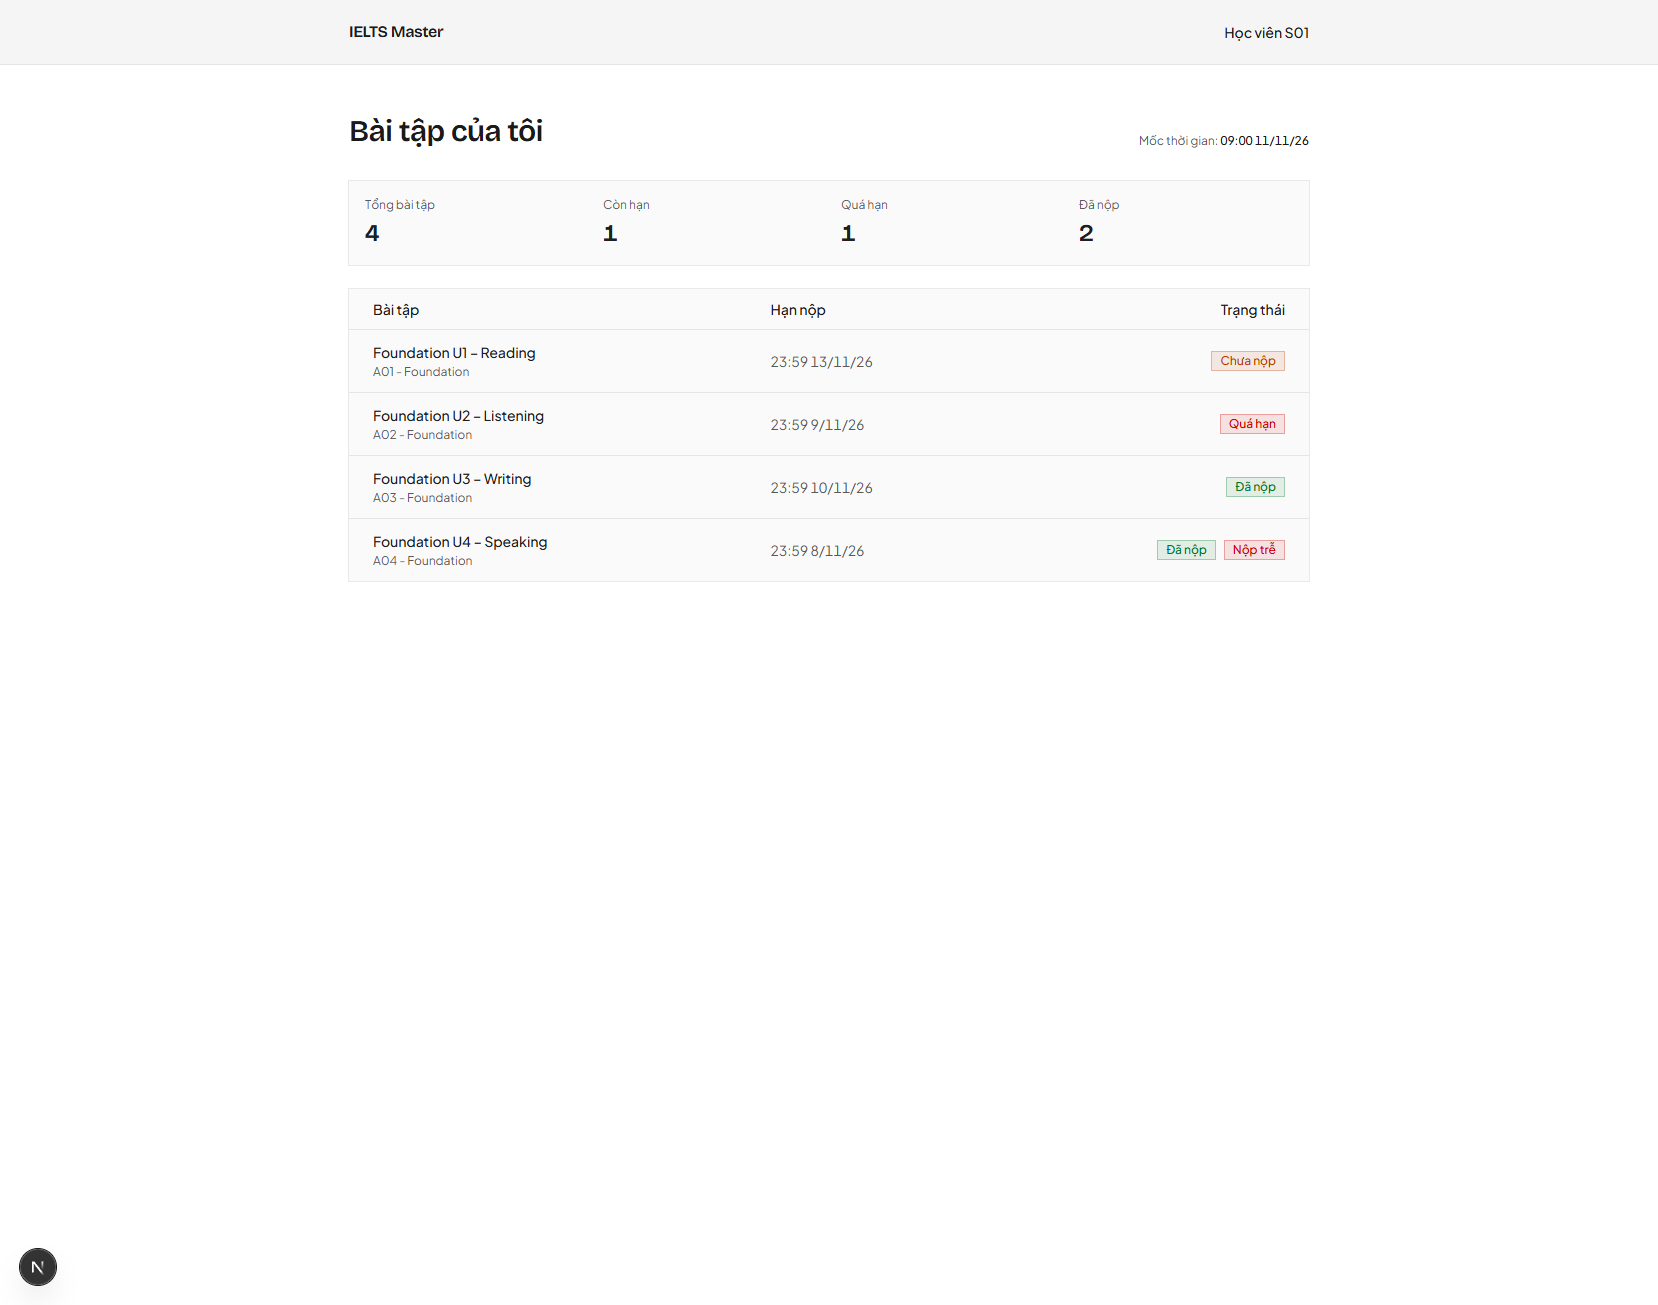
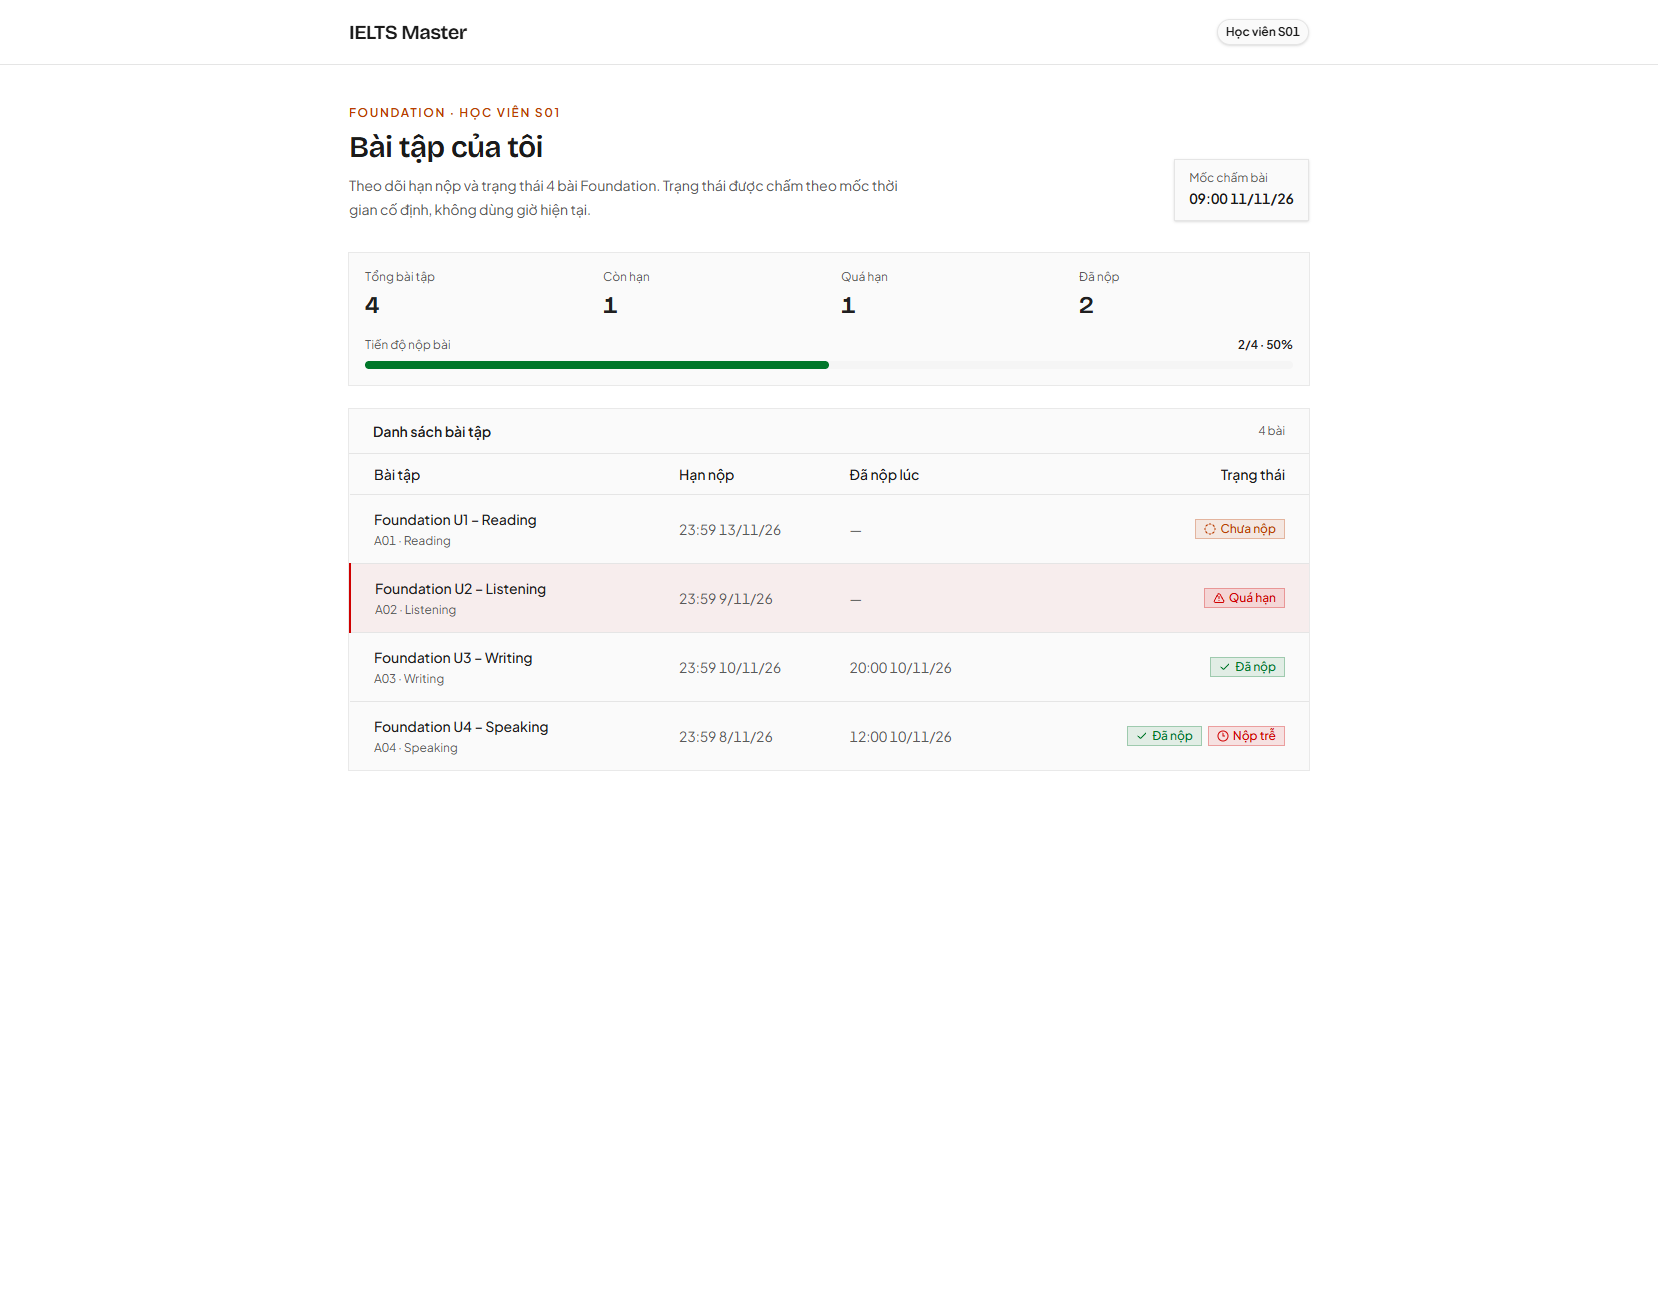
feat: update page title for consistency in metadata

diff --git a/src/app/layout.tsx b/src/app/layout.tsx
@@ -15,7 +15,7 @@ const bricolageGrotesque = Bricolage_Grotesque({
 });
 
 export const metadata: Metadata = {
-  title: "Bài tập của tôi | IELTS Master",
+  title: "IELTS Master",
   description: "Theo dõi bài tập IELTS Foundation của học viên S01.",
 };
 
